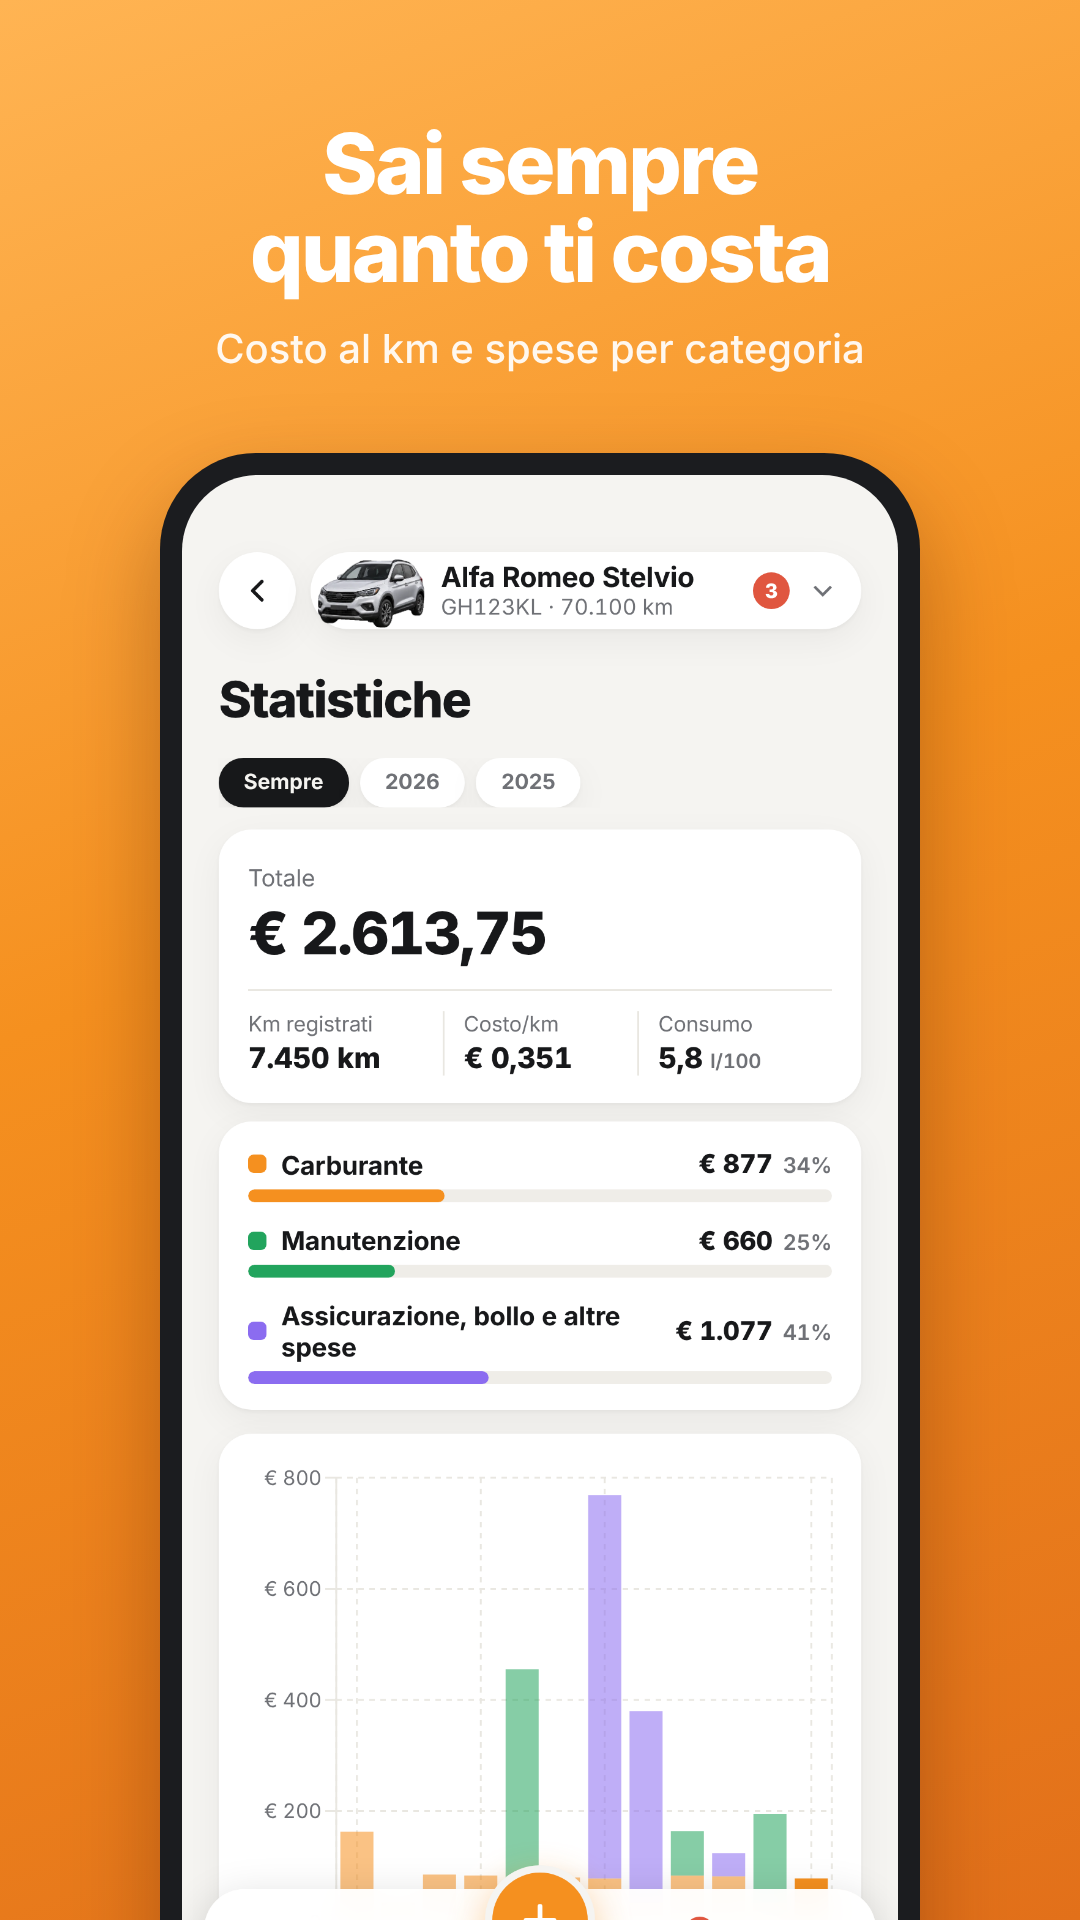
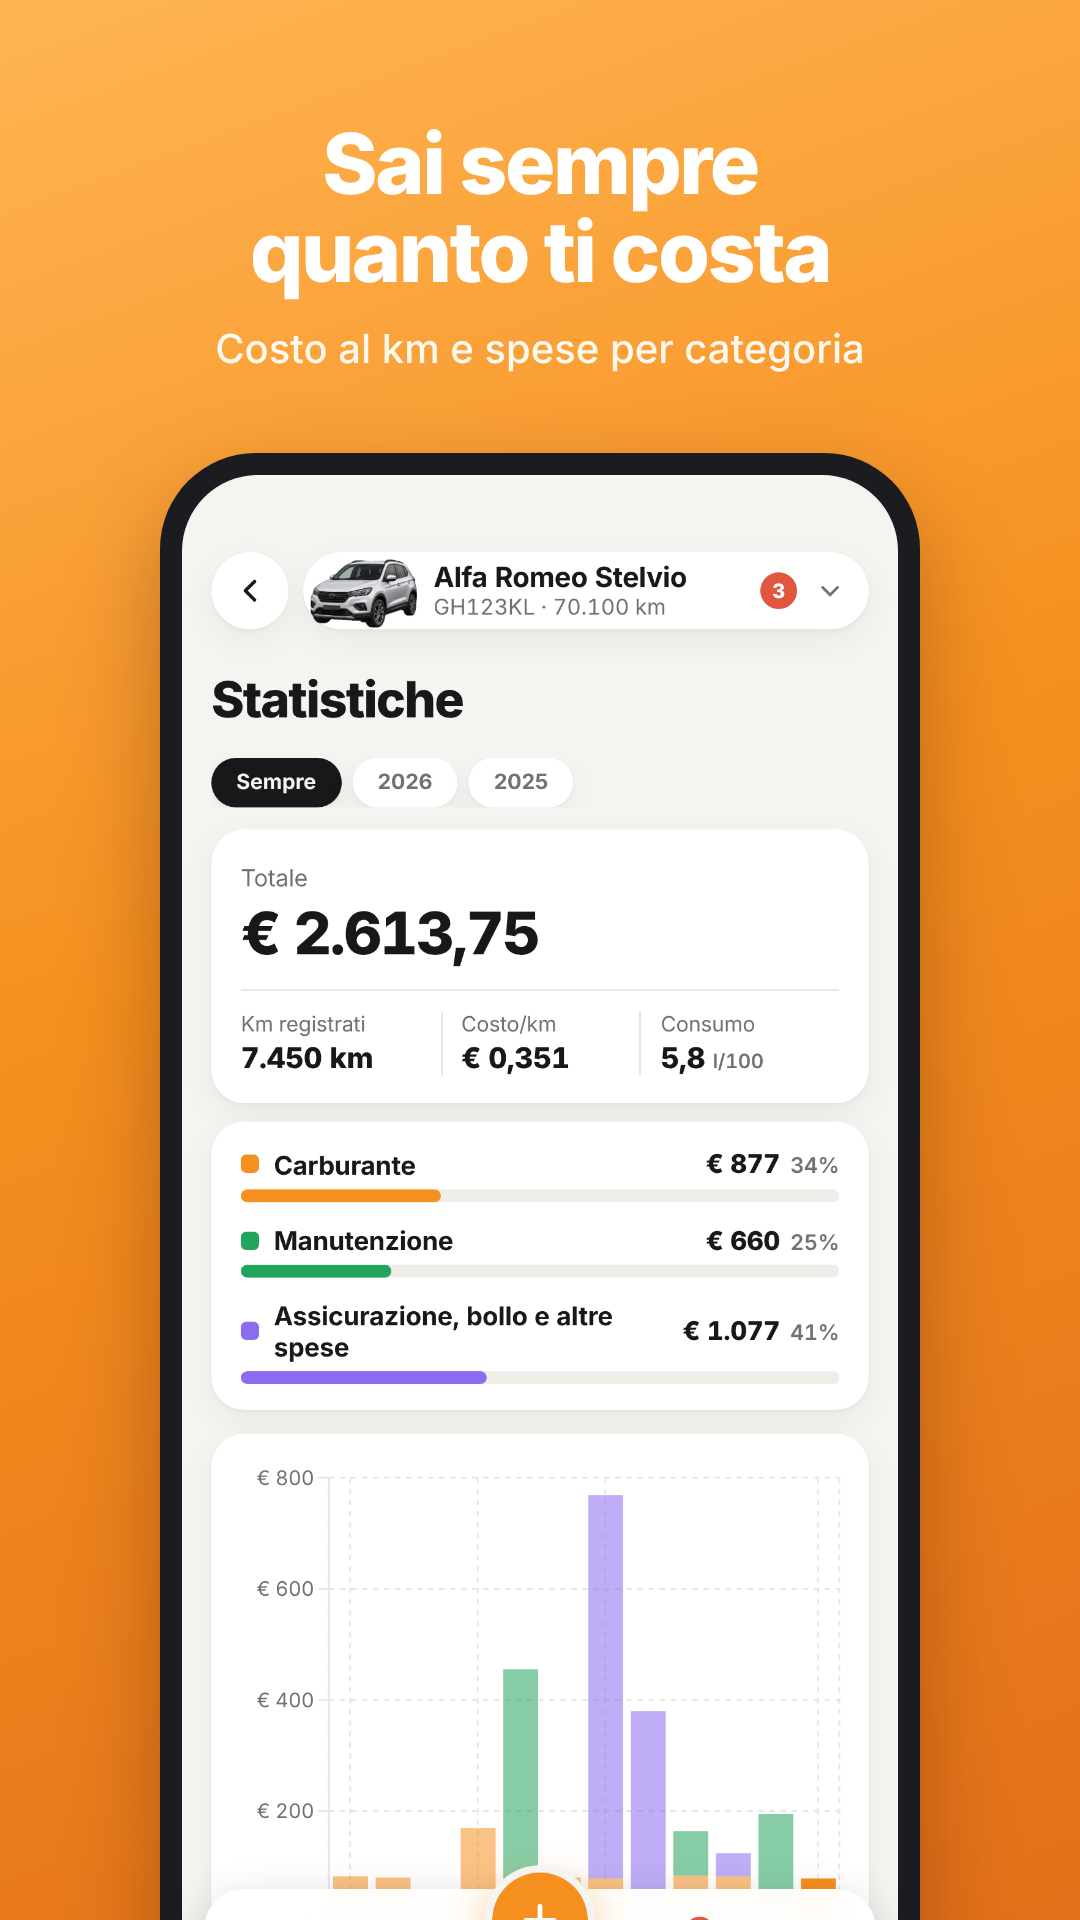
Promemoria Pieno, tema e tariffa viaggi nel backup, screenshot Store aggiornati (1.0.81)
- Rifornimenti: avviso se da 3 rifornimenti non c'è un Pieno (il consumo non si può calcolare), in 10 lingue
- Backup: salva e ripristina aspetto (tema, colore, testo) e tariffa €/km dei viaggi di lavoro
- Screenshot Play Store rifatti con i nuovi margini

Claude-Session: https://claude.ai/code/session_01Hg5zx9DTrXxFL7KePPQypi

diff --git a/src/utils/theme.ts b/src/utils/theme.ts
@@ -70,6 +70,7 @@ const THEME_COLORS: Record<Theme, string> = {
 };
 
 export function applyTheme(theme: Theme): void {
+  if (typeof document === "undefined") return;
   document.documentElement.setAttribute("data-theme", theme);
   const meta = document.querySelector('meta[name="theme-color"]');
   if (meta) meta.setAttribute("content", THEME_COLORS[theme]);
@@ -81,6 +82,7 @@ export function getStoredAccent(): Accent {
 }
 
 export function applyAccent(accent: Accent): void {
+  if (typeof document === "undefined") return;
   if (accent === "orange") document.documentElement.removeAttribute("data-accent");
   else document.documentElement.setAttribute("data-accent", accent);
 }
@@ -95,6 +97,7 @@ export function getStoredTextSize(): TextSize {
 }
 
 export function applyTextSize(size: TextSize): void {
+  if (typeof document === "undefined") return;
   if (size === "large") document.documentElement.setAttribute("data-text", "large");
   else document.documentElement.removeAttribute("data-text");
 }
@@ -109,4 +112,24 @@ export function applyStoredAppearance(): void {
   applyTheme(getInitialTheme());
   applyAccent(getStoredAccent());
   applyTextSize(getStoredTextSize());
+}
+
+/** Aspetto da salvare nel backup, così su un telefono nuovo l'app torna com'era. */
+export interface AppearanceBackup {
+  theme: ThemeMode;
+  accent: Accent;
+  textSize: TextSize;
+}
+
+export function readAppearance(): AppearanceBackup {
+  return { theme: getStoredThemeMode(), accent: getStoredAccent(), textSize: getStoredTextSize() };
+}
+
+/** Ripristina l'aspetto da un backup, ignorando valori sconosciuti. */
+export function restoreAppearance(a: Partial<Record<keyof AppearanceBackup, unknown>> | undefined): void {
+  if (!a || typeof a !== "object") return;
+  if (a.theme === "auto" || a.theme === "light" || a.theme === "dark") setStoredThemeMode(a.theme);
+  if (ACCENTS.some((x) => x.id === a.accent)) write(ACCENT_KEY, a.accent as Accent);
+  if (a.textSize === "normal" || a.textSize === "large") write(TEXT_KEY, a.textSize);
+  applyStoredAppearance();
 }

diff --git a/src/components/FuelChargeList.tsx b/src/components/FuelChargeList.tsx
@@ -1,7 +1,7 @@
 import { useState, type ReactNode } from "react";
 import { useTranslation } from "react-i18next";
 import type { FuelEntry, ChargingEntry, FuelType } from "../types";
-import { calculateConsumption, averageConsumption, calculateElectricConsumption, averageElectricConsumption, groupByMonth, mainFuelSource } from "../utils/calculations";
+import { calculateConsumption, averageConsumption, calculateElectricConsumption, averageElectricConsumption, groupByMonth, mainFuelSource, needsFullTankHint } from "../utils/calculations";
 import { formatNumber, getNumberLocale } from "../utils/locale";
 import { useAppSettings } from "../contexts/AppSettingsContext";
 import { getCurrencySymbol, kmToDisplayDistance } from "../utils/settings";
@@ -92,6 +92,10 @@ export default function FuelChargeList({
   const allKm = periodFilteredRows.map((r) => r.entry.km);
   const totalDistance = allKm.length > 1 ? Math.max(...allKm) - Math.min(...allKm) : 0;
 
+  // Nessun "Pieno" da un po': il consumo non si può calcolare, lo ricordiamo.
+  const hintSource = mainFuelSource(vehicleFuelType);
+  const showFullHint = needsFullTankHint(fuelEntries.filter((e) => !hintSource || e.source === hintSource));
+
   // per calcolare il delta "+XXX km" rispetto alla voce precedente nello storico completo (non filtrato)
   const sortedByKm = [...rows].sort((a, b) => a.entry.km - b.entry.km);
   const deltaByEntryId = new Map<string, number | null>();
@@ -142,6 +146,8 @@ export default function FuelChargeList({
           </div>
         </div>
       </section>
+
+      {showFullHint && <p className="fc-full-hint">{t("fuel.fullTankHint")}</p>}
 
       {actions}
 

diff --git a/src/utils/storage.ts b/src/utils/storage.ts
@@ -1,3 +1,4 @@
+import { readAppearance, restoreAppearance, type AppearanceBackup } from "./theme";
 import type {
   Vehicle,
   FuelEntry,
@@ -259,6 +260,10 @@ export interface BackupData {
   homeChargingDefaults?: HomeChargingDefaults[];
   /** Installata prima che il Pro fosse a pagamento: resta sbloccato anche su un telefono nuovo. */
   earlyUser?: boolean;
+  /** Tema, colore principale e dimensione del testo. */
+  appearance?: AppearanceBackup;
+  /** Tariffa €/km del rimborso viaggi di lavoro. */
+  tripRate?: string;
 }
 
 export async function buildBackup(): Promise<BackupData> {
@@ -290,6 +295,7 @@ export async function buildBackup(): Promise<BackupData> {
     loadTripEntries(),
   ]);
   const earlyUser = (await getMeta("early-user")) === "1";
+  const tripRate = await getMeta("trip-rate").catch(() => null);
 
   return {
     version: 2,
@@ -307,6 +313,8 @@ export async function buildBackup(): Promise<BackupData> {
     homeChargingDefaults,
     tripEntries,
     ...(earlyUser ? { earlyUser: true } : {}),
+    appearance: readAppearance(),
+    ...(tripRate ? { tripRate } : {}),
   };
 }
 
@@ -347,6 +355,8 @@ export async function restoreBackup(data: BackupData): Promise<void> {
   await replaceAll("commuteScenarios", data.commuteScenarios ?? []);
   await replaceAll("tripEntries", data.tripEntries ?? []);
   if (data.earlyUser) await setMeta("early-user", "1");
+  if (typeof data.tripRate === "string" && data.tripRate) await setMeta("trip-rate", data.tripRate);
+  restoreAppearance(data.appearance);
 }
 
 export async function getLastBackupDate(): Promise<string | null> {

diff --git a/src/utils/__tests__/theme.test.ts b/src/utils/__tests__/theme.test.ts
@@ -90,3 +90,28 @@ describe("tema", () => {
     expect(ACCENTS.map((a) => a.id)).toEqual(["orange", "blue", "teal", "violet", "pink", "graphite"]);
   });
 });
+
+describe("aspetto nel backup", () => {
+  afterEach(() => vi.unstubAllGlobals());
+
+  it("salva e ripristina tema, colore e testo, ignorando valori sconosciuti", async () => {
+    const { readAppearance, restoreAppearance } = await import("../theme");
+    const env = fakeEnv(true);
+    setStoredThemeMode("dark");
+    setAccent("pink");
+    setTextSize("large");
+    const saved = readAppearance();
+    expect(saved).toEqual({ theme: "dark", accent: "pink", textSize: "large" });
+
+    env.store.clear();
+    restoreAppearance(saved);
+    expect(getStoredThemeMode()).toBe("dark");
+    expect(getStoredAccent()).toBe("pink");
+    expect(env.attrs.get("data-text")).toBe("large");
+
+    restoreAppearance({ theme: "rosso", accent: "giallo", textSize: "enorme" });
+    expect(getStoredThemeMode()).toBe("dark");
+    expect(getStoredAccent()).toBe("pink");
+    restoreAppearance(undefined);
+  });
+});

diff --git a/src/utils/__tests__/consumptionAlert.test.ts b/src/utils/__tests__/consumptionAlert.test.ts
@@ -19,3 +19,15 @@ describe("allarme consumo", () => {
     expect(consumptionAlert([pt(0, 6), pt(1, 9)])).toBeNull();
   });
 });
+
+describe("promemoria Pieno", () => {
+  it("compare dopo 3 rifornimenti senza pieno", async () => {
+    const { needsFullTankHint } = await import("../calculations");
+    const f = (km: number, fullTank: boolean) => ({ km, fullTank });
+    expect(needsFullTankHint([f(100, false), f(200, false)])).toBe(false);
+    expect(needsFullTankHint([f(100, false), f(200, false), f(300, false)])).toBe(true);
+    expect(needsFullTankHint([f(100, true), f(200, false), f(300, false)])).toBe(false);
+    expect(needsFullTankHint([f(400, false), f(100, true), f(200, false), f(300, false)])).toBe(true);
+    expect(needsFullTankHint([f(100, false), f(200, false), f(300, true)])).toBe(false);
+  });
+});

diff --git a/src/utils/calculations.ts b/src/utils/calculations.ts
@@ -230,3 +230,16 @@ export function consumptionAlert(points: ConsumptionPoint[], threshold = 0.15): 
   if (increase < threshold) return null;
   return { recent, usual, increasePct: Math.round(increase * 100), atKm: sorted[sorted.length - 1].toKm };
 }
+
+/**
+ * Serve ricordare di segnare "Pieno"? Il consumo si calcola solo tra due pieni:
+ * se ci sono almeno 3 rifornimenti e nessun pieno, o 3 di fila dopo l'ultimo pieno,
+ * il consumo resta fermo.
+ */
+export function needsFullTankHint(entries: Pick<FuelEntry, "km" | "fullTank">[]): boolean {
+  if (entries.length < 3) return false;
+  const sorted = [...entries].sort((a, b) => a.km - b.km);
+  let sinceFull = 0;
+  for (const e of sorted) sinceFull = e.fullTank ? 0 : sinceFull + 1;
+  return sinceFull >= 3;
+}

diff --git a/src/App.tsx b/src/App.tsx
@@ -878,7 +878,12 @@ export default function App() {
                 maintenanceEntries={maintenanceEntries}
                 expenseEntries={expenseEntries}
                 chargingEntries={chargingEntries}
-                onRestored={reloadAll}
+                onRestored={() => {
+                  void reloadAll();
+                  // il backup può riportare anche tema e colori
+                  setThemeMode(getStoredThemeMode());
+                  setTheme(resolveTheme(getStoredThemeMode()));
+                }}
               />
             </Suspense>
           </section>

diff --git a/src/modern.css b/src/modern.css
@@ -2129,3 +2129,4 @@ body {
 .settings-embedded { margin-left: -1rem; margin-right: -1rem; }
 .menu-garage,
 .menu-list { padding-left: 1rem; padding-right: 1rem; }
+.fc-full-hint { margin: 0.7rem 0 0; padding: 0.7rem 0.85rem; border-radius: 14px; background: var(--amber-soft); color: var(--text); font-size: 0.85rem; line-height: 1.35; }

diff --git a/public/sw.js b/public/sw.js
@@ -1,4 +1,4 @@
-const CACHE_NAME = "diario-auto-v70";
+const CACHE_NAME = "diario-auto-v71";
 const BASE = "/";
 
 const CORE_ASSETS = [BASE, BASE + "manifest.json"];
